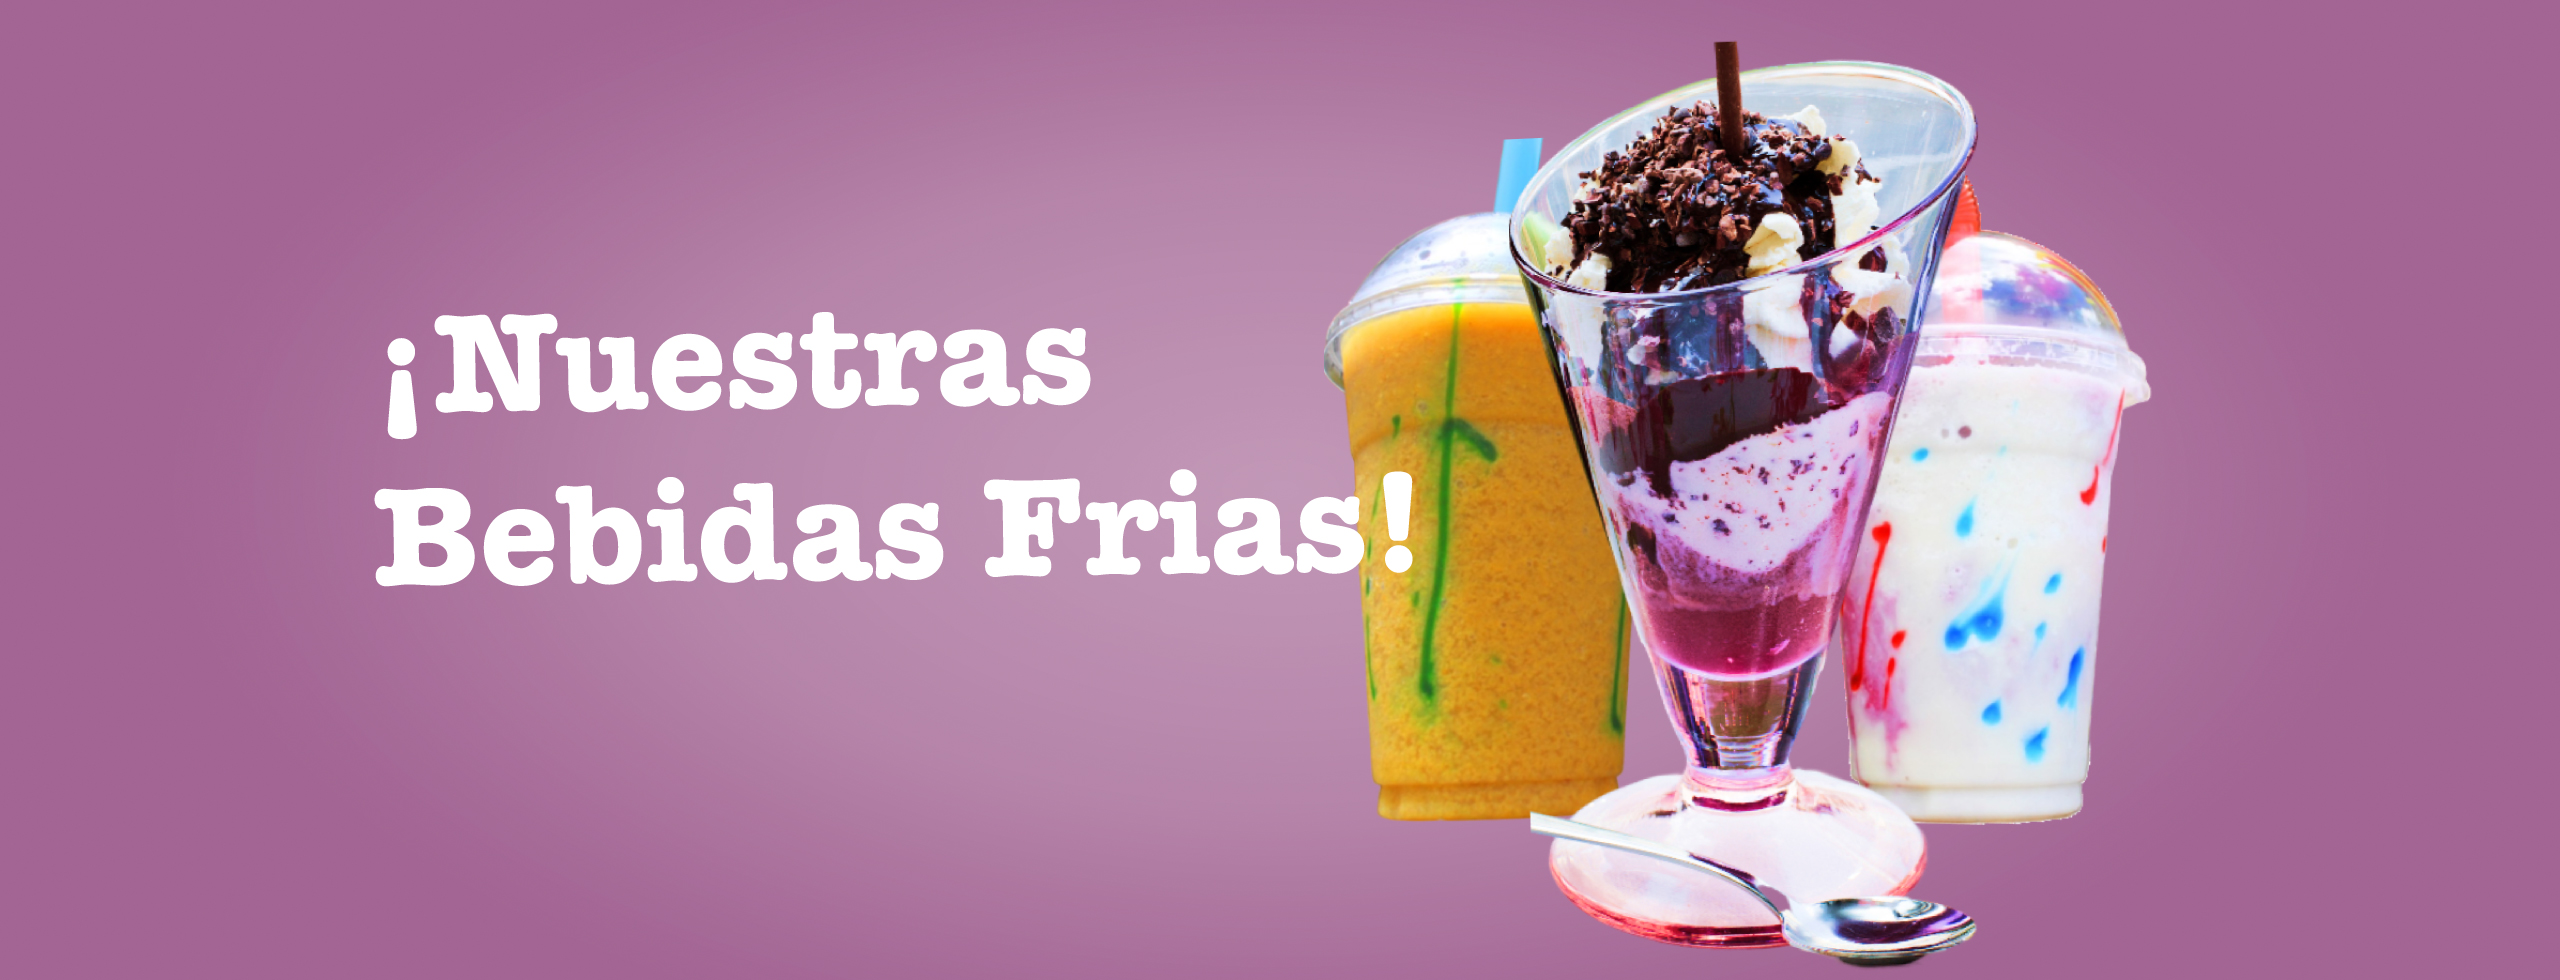
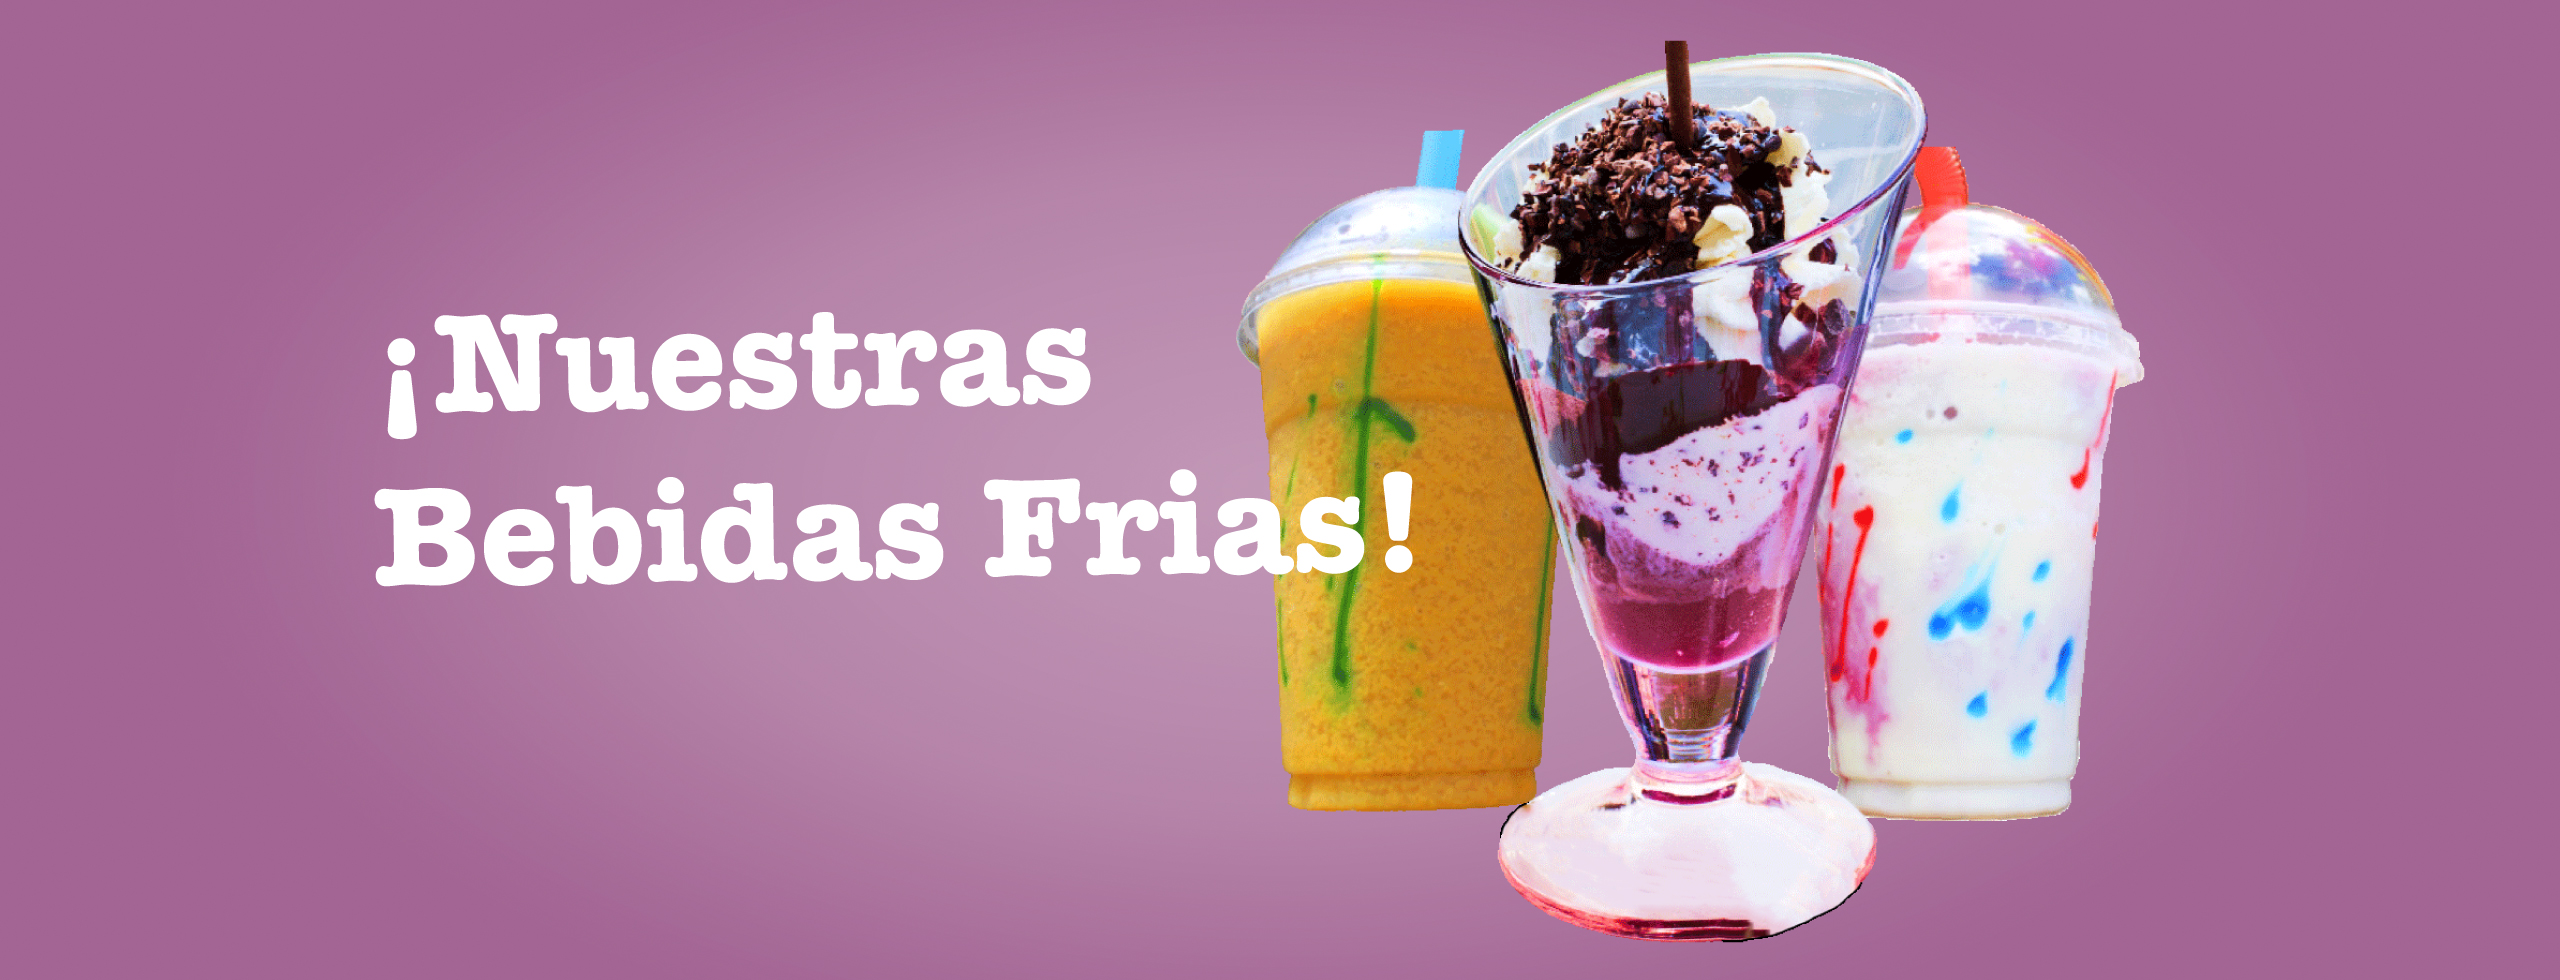
media query 1024px added

Changed region(s): [[0.4688, 0.0306, 0.8438, 1.0]]

diff --git a/index.html b/index.html
@@ -8,7 +8,7 @@
   <meta name="author" content="Andres Rios">
   <meta name="date" content="26/01/2024">
   <meta name="keywords"
-    content="cremoladillas, pizzas, smoothies, milkshakes,zumos, snackbar, barcelona, españa, lamas, perú">
+    content="cremoladillas, pizzas, smoothies, milkshakes, zumos, snackbar, barcelona, españa, lamas, perú">
   <link rel="shortcut icon" href="./assets/images/logo-original.png" type="image/x-icon">
   <link rel="stylesheet" href="./style.css">
   <link rel="stylesheet" href="https://cdnjs.cloudflare.com/ajax/libs/font-awesome/6.5.1/css/all.min.css"
@@ -44,7 +44,7 @@
     <section class="primavera">
       <h1>¡Nuestra carta de Primavera ya esta aquí!</h1>
       <p>Nueva carta para elegir entre pizzas,
-        tequeños, empanadas venezolanas <br> y bebidas frias.
+        tequeños, empanadas venezolanas y bebidas frias.
       </p>
       <button class="btn-primavera">Lee más</button>
     </section>
@@ -74,42 +74,42 @@
       <h2>Nuestra carta de bebida y comida</h2>
       <div class="tarjetas">
         <figure class="tarjeta">
-          <img src="./assets/images/cremoladilla-296px.jpg" alt="Cremoladilla">
+          <img src="./assets/images/cremoladilla-296px_2.jpg" alt="Cremoladilla">
           <figcaption>Cremoladillas</figcaption>
         </figure>
 
         <figure class="tarjeta">
-          <img src="./assets/images/smoothie-296px.jpg" alt="Smoothie">
+          <img src="./assets/images/smoothie-296px_2.jpg" alt="Smoothie">
           <figcaption>Smoothies</figcaption>
         </figure>
 
         <figure class="tarjeta">
-          <img src="./assets/images/milkshake-296px.jpg" alt="Milkshake">
+          <img src="./assets/images/milkshake-296px_2.jpg" alt="Milkshake">
           <figcaption>Milkshakes</figcaption>
         </figure>
 
         <figure class="tarjeta">
-          <img src="./assets/images/zumo-296px.jpg" alt="Zumo">
+          <img src="./assets/images/zumo-296px_2.jpg" alt="Zumo">
           <figcaption>Zumos</figcaption>
         </figure>
 
         <figure class="tarjeta">
-          <img src="./assets/images/pizza-296px.jpg" alt="Pizza">
+          <img src="./assets/images/pizza-296px_2.jpg" alt="Pizza">
           <figcaption>Pizzas</figcaption>
         </figure>
 
         <figure class="tarjeta">
-          <img src="./assets/images/empanadas-296px.jpg" alt="Empanadas">
+          <img src="./assets/images/empanadas-296px_2.jpg" alt="Empanadas">
           <figcaption>Empanadas</figcaption>
         </figure>
 
         <figure class="tarjeta">
-          <img src="./assets/images/tequenos-296px.jpg" alt="Tequeños">
+          <img src="./assets/images/tequenos-296px_2.jpg" alt="Tequeños">
           <figcaption>Tequeños</figcaption>
         </figure>
 
         <figure class="tarjeta">
-          <img src="./assets/images/tarta-296px.jpg" alt="Tarta">
+          <img src="./assets/images/tarta-296px_2.jpg" alt="Tarta">
           <figcaption>Tartas</figcaption>
         </figure>
       </div>

diff --git a/style.css b/style.css
@@ -371,6 +371,12 @@ main {
 }
 
 @media (min-width: 768px) {
+
+  .nav-bar {
+    margin: 0 32px;
+    gap: 52px;
+  }
+
   .hero-img2 {
     display: none;
     visibility: hidden;
@@ -382,9 +388,10 @@ main {
   }
 
   .primavera {
-    margin-bottom: 80px;
+    padding: 40px 16px 0;
     width: 92%;
-    transform: translateY(-50px);
+    transform: translateY(-45px);
+    margin-bottom: 80px;
   }
 
   .primavera h1 {
@@ -447,5 +454,56 @@ main {
     flex-direction: row;
     justify-content: center;
     gap: 160px;
+  }
+}
+
+@media (min-width: 1024px) {
+  header {
+    padding: 14px 0;
+  }
+
+  .primavera {
+    width: 88%;
+    transform: translateY(-70px);
+  }
+
+  .pizzas {
+    margin-bottom: 200px;
+  }
+
+  .pizzas-inner {
+    gap: 70px;
+  }
+
+  .pizzas-inner img {
+    width: 384px;
+  }
+
+  .pizzas-text {
+    width: 384px;
+  }
+
+  .bebidas {
+    margin-bottom: 170px;
+  }
+
+  .bebidas-inner {
+    gap: 70px;
+  }
+
+  .bebidas-inner img {
+    width: 384px;
+  }
+
+  .bebidas-text {
+    width: 384px;
+  }
+
+  .nuestra-carta {
+    margin-bottom: 170px;
+  }
+
+  .swiper {
+    margin-bottom: 170px;
   }
 }
